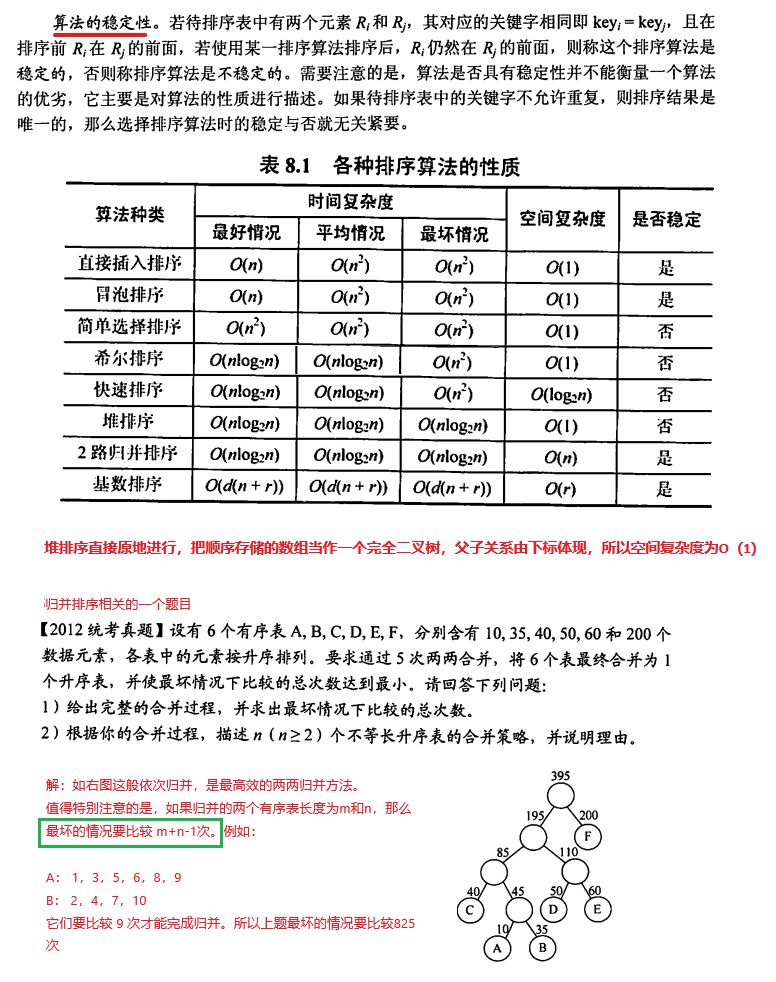
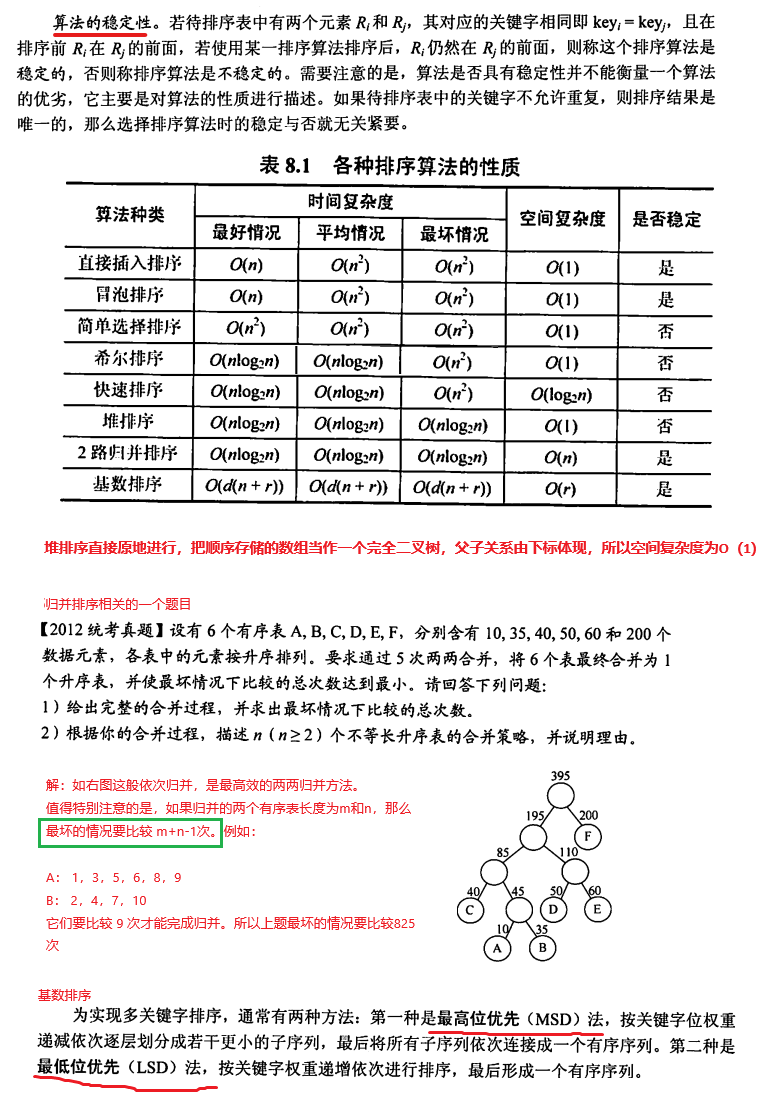
x

Changed region(s): [[0.0, 0.0, 0.9897, 1.0]]

diff --git a/code/splitSet.c b/code/splitSet.c
@@ -1,0 +1,80 @@
+// 2016 408统考题，把一个set划分为两个子集，使得两子集的尺寸差距最小二两子集各自的元素和的差距最大
+//思路就是类似快速排序，找到一个分割点，刚好等于和特别小的那个子集的尺寸。
+#include <stdlib.h>
+#include <stdio.h>
+#include <string.h>
+#include <stdint.h>
+
+void swap(int * arr, int i, int j)
+{
+        int tmp = arr[i];
+        arr[i] = arr[j];
+        arr[j] = tmp;
+}
+void printarr(int * arr, int len)
+{
+        for (int i = 0; i < len; ++i)
+        {
+                printf("%d ", arr[i]);
+        }
+        printf("\n");
+
+}
+int func(int * arr, int n)
+{
+        int n1 = n / 2;
+        int n2 = n - n1;
+        int pivot = arr[n-1];
+        int low = 0;
+        int high = n-1;
+
+        for (;;)
+        {
+                // 一趟快速排序
+                int i = low;
+                int j = high;
+
+                while (i < j)
+                {
+                        while (i<j && arr[i] <= pivot)
+                        {
+                                i++;
+                        }
+                        swap(arr, i, j);
+                        while (i<j && arr[j] >= pivot)
+                        {
+                                j--;
+                        }
+                        swap(arr, i, j);
+                }
+                //arr[i] = arr[pivot];
+                printf("pivot=%d, i:%d, j:%d, n1:%d\n", pivot, i, j, n1);
+                printarr(arr, n);
+                if (n1 == i)
+                {
+                        return 0;
+                }
+                else if (n1 > i)
+                {
+                        n1 = n1 - i;
+                        low = i+1;
+                        pivot = arr[high];
+                }
+                else // n1 < pivot
+                {
+                        high = i-1;
+                        pivot = arr[high];
+                }
+
+        }
+        return 0;
+}
+
+int main()
+{
+        int arr[] = { 1,4,3,6,2,7,5};
+        int len = sizeof(arr)/sizeof(int);
+        func(arr, len);
+        return 0;
+
+}

diff --git a/计算机专业课-错题集.md b/计算机专业课-错题集.md
@@ -35,3 +35,5 @@
 ![image-20241014122037374](img/image-20241014122037374.png)
 
 ![image-20241016143328093](img/image-20241016143328093.png)
+
+![image-20241018115909056](img/image-20241018115909056.png)
